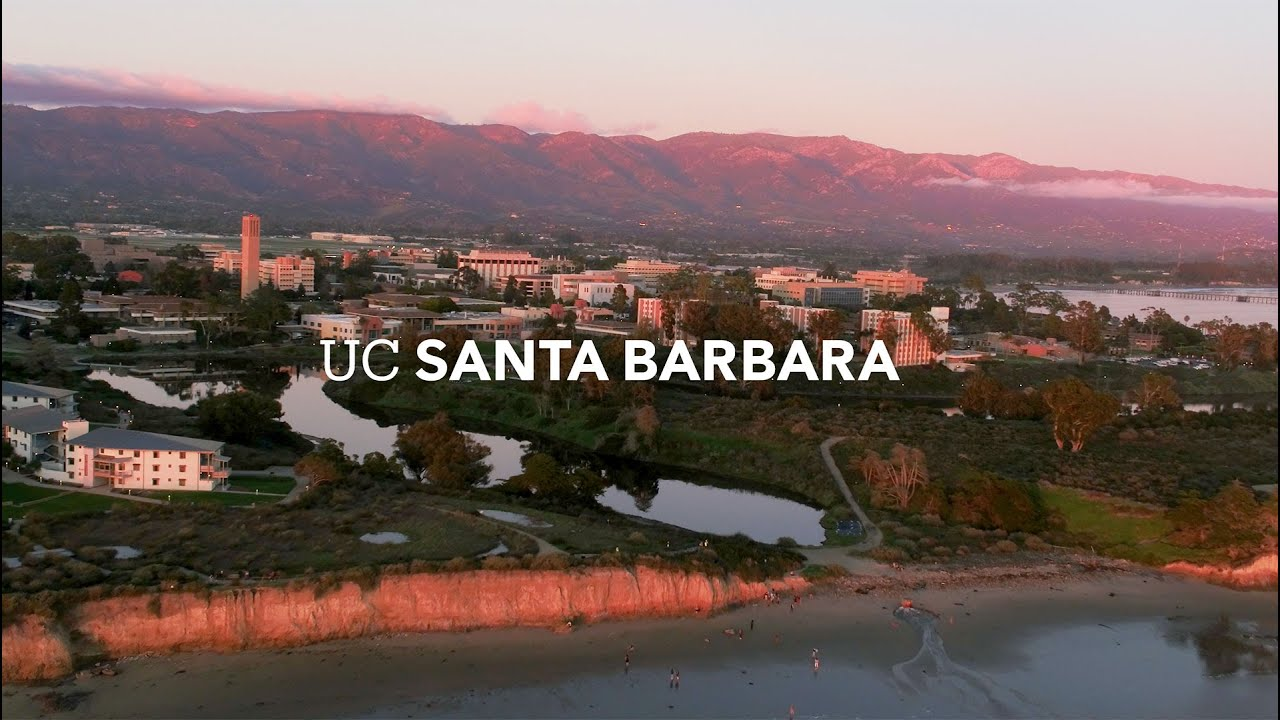
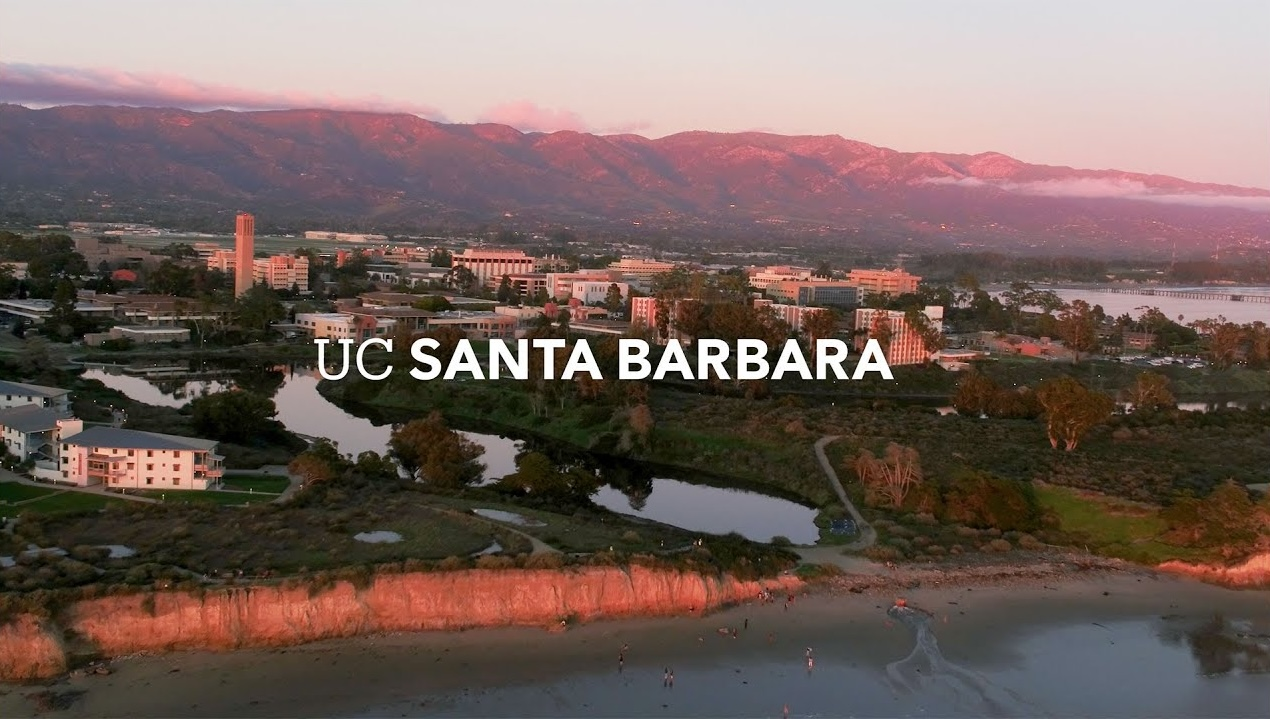
adjust ucsb sunset pic

diff --git a/blog/hiring-post-2026.html b/blog/hiring-post-2026.html
@@ -95,7 +95,7 @@
 
 </div>
 
-<div class="col-lg-12 col-md-12 col-sm-12 col-xs-12 thumb blogcontent">
+<div class="col-lg-8 col-md-8 col-sm-8 col-xs-8 thumb blogcontent">
     <img alt="UC Santa Barbara campus" class="img-fluid" src="images/ucsb_campus_sunset.jpg">
 </div>
 
